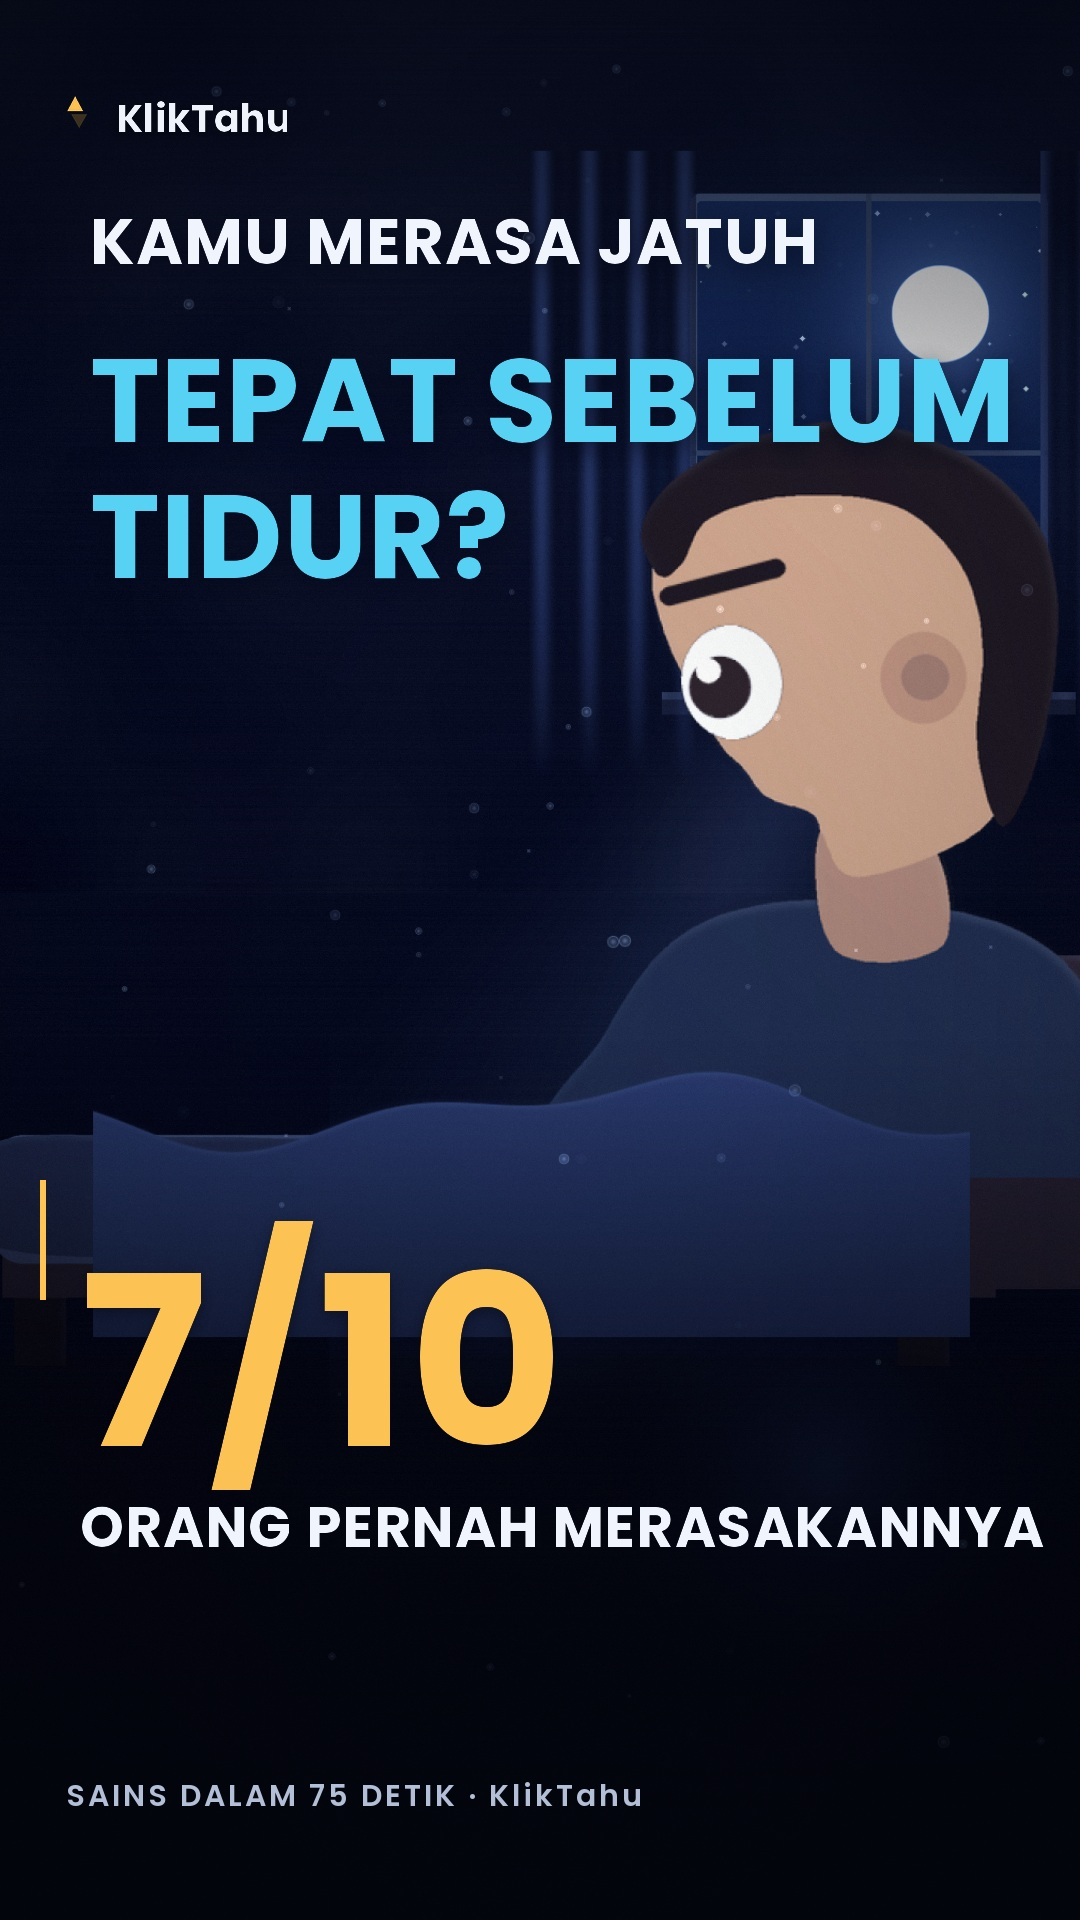
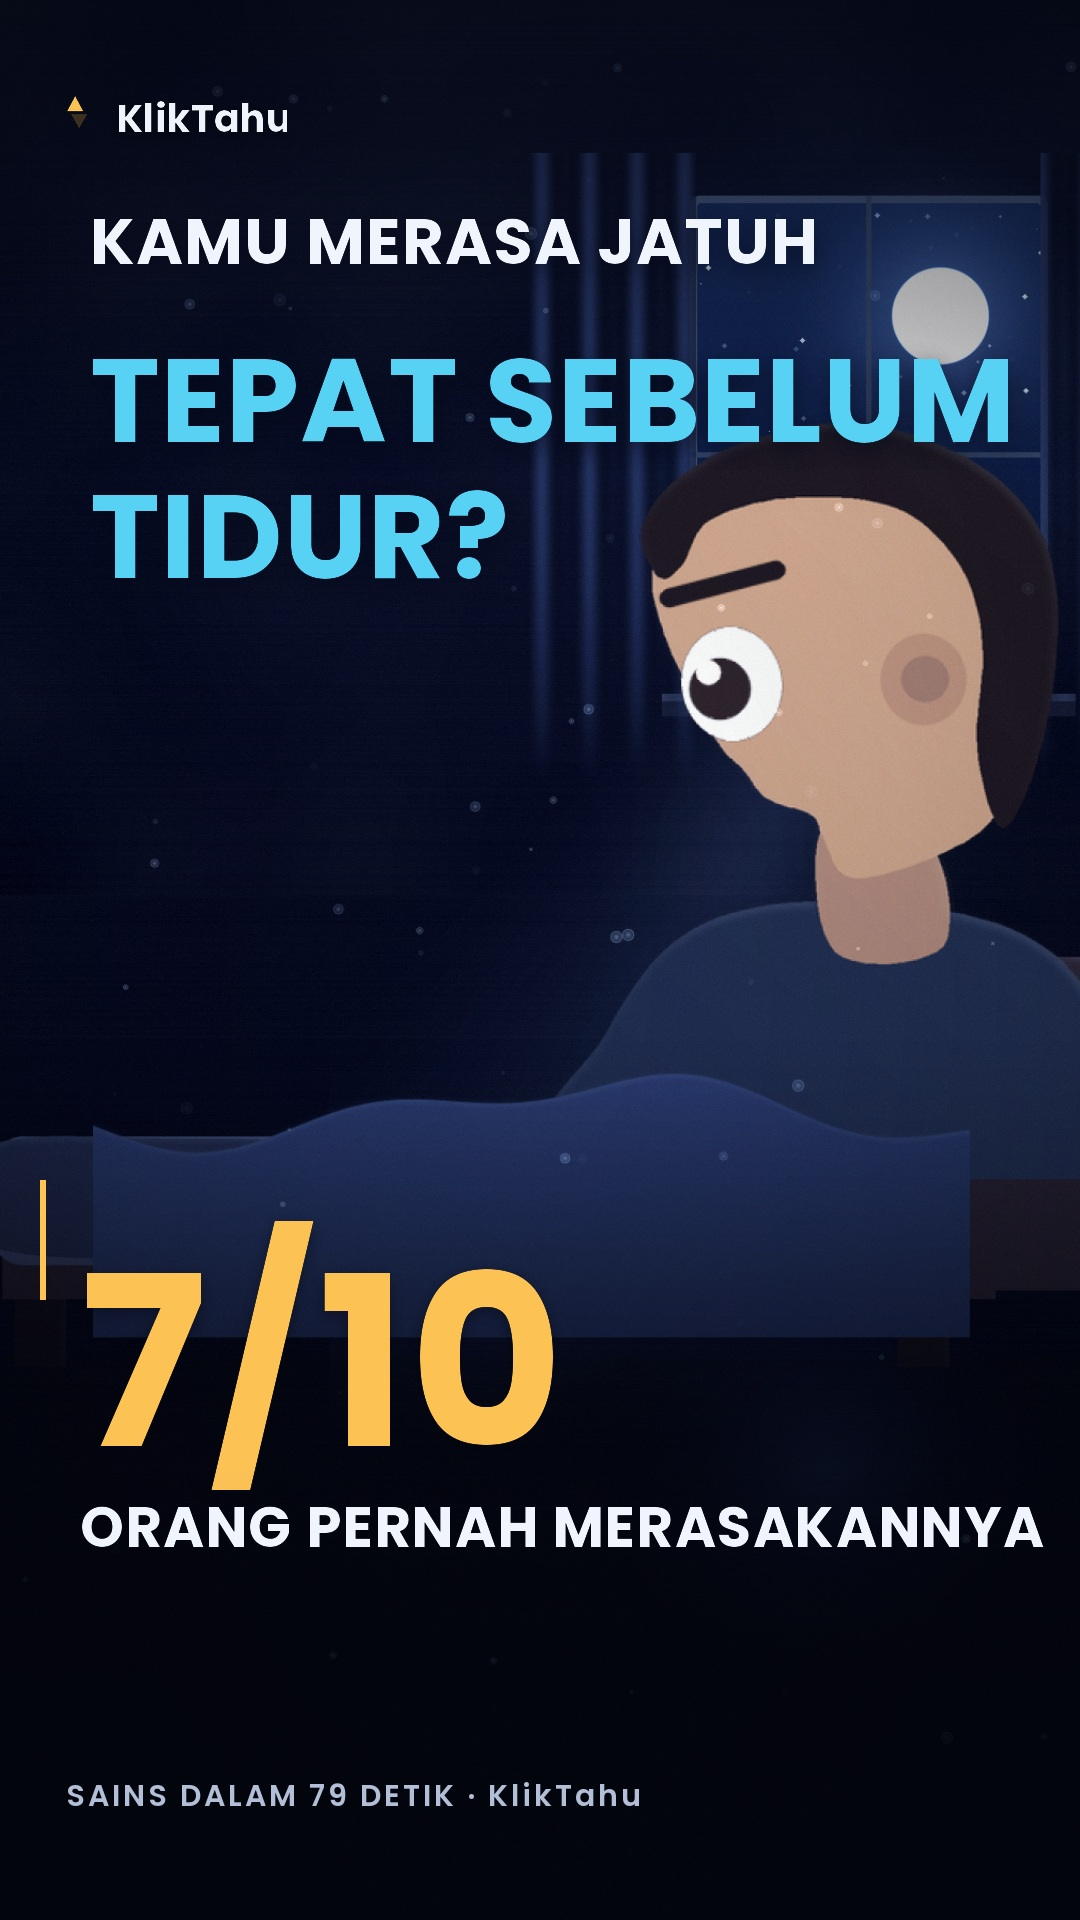
Render ulang Ep56 dengan panel durasi dinamis + 720p & pustaka segar
Teks '75 DETIK' di panel data babak terakhir dan di thumbnail dirender
SEBELUM durasi dihitung dari timeline, jadi video 79,32 s masih mengklaim 75
detik. Sekarang semuanya dirender ulang dari kode yang sudah dipatch.

- mesin_v20_ep56.py: penanda _AUTO ('__DURASI__') menggantikan string ajaib
  '75 DETIK'; nilainya diisi f'{TOTAL:.0f} DETIK'. Panel kini '79 DETIK'
  (penuh) dan '48 DETIK' (kilat), sudah dicek dari frame asli video.
- Render ulang: penuh 79,32 s / 58,27 MB, kilat 48,07 s / 35,80 MB,
  keduanya QC 24/24 dengan audio VO baru.
- pratinjau_720p.py (baru): 720x1280 lanczos CRF 26 + verifikasi resolusi,
  durasi, audio, ukuran -> 720p 7,2 MB & 4,4 MB (sebelumnya dibuat dengan
  perintah ffmpeg manual yang tidak tercatat).
- pustaka/Ep56_HypnicJerk/ dibuat ulang dari video+audio final: METADATA
  (bab waktu dari timing.json), subtitle_id.srt 12 baris dengan waktu baru,
  thumb_utama ('SAINS DALAM 79 DETIK') & thumb_alt, lembar pratinjau.
- .gitignore: audio/vo/master.json & audio/vo_kilat/master.json (hasil ukur)
  tidak ikut repo.

diff --git a/mesin-v12/pratinjau_720p.py b/mesin-v12/pratinjau_720p.py
@@ -1,0 +1,116 @@
+#!/usr/bin/env python3
+"""Pratinjau 720x1280 dari video Shorts 1080x1920.
+
+Kenapa ada berkas ini: versi 720p dulu dibuat dengan perintah ffmpeg yang
+diketik tangan, sehingga angkanya (crf 26, lanczos, `-c:a copy`) hanya hidup di
+catatan sesi dan mudah melenceng antar-episode. Semua parameter sekarang di
+satu tempat, dan tiap hasil langsung diperiksa (resolusi, durasi, audio utuh,
+ukuran) sebelum dilaporkan.
+
+Pakai:
+    python3 pratinjau_720p.py keluaran/KlikTahu_Ep56_HypnicJerk_v20.mp4
+    python3 pratinjau_720p.py keluaran/*.mp4 --crf 27
+
+Keluaran ditulis di sebelah berkas sumber dengan akhiran `_720p.mp4`.
+"""
+from __future__ import annotations
+
+import argparse
+import json
+import os
+import subprocess
+import sys
+
+try:
+    import imageio_ffmpeg
+
+    FF = imageio_ffmpeg.get_ffmpeg_exe()
+except Exception:  # pragma: no cover - ffmpeg dari PATH
+    FF = "ffmpeg"
+
+
+def ffprobe_json(path: str) -> dict:
+    """Info stream lewat `ffmpeg -i` (di sandbox tidak ada ffprobe)."""
+    out = subprocess.run(
+        [FF, "-hide_banner", "-i", path], capture_output=True, text=True
+    ).stderr
+    info = {"durasi": None, "lebar": None, "tinggi": None, "audio": False}
+    for baris in out.splitlines():
+        b = baris.strip()
+        if b.startswith("Duration:"):
+            jam, menit, sisa = b.split()[1].rstrip(",").split(":")
+            info["durasi"] = int(jam) * 3600 + int(menit) * 60 + float(sisa)
+        elif "Video:" in b and "x" in b:
+            for bagian in b.split(","):
+                bagian = bagian.strip()
+                if "x" in bagian and bagian.replace("x", "").isdigit():
+                    lebar, tinggi = bagian.split("x")
+                    info["lebar"], info["tinggi"] = int(lebar), int(tinggi)
+                    break
+        elif "Audio:" in b:
+            info["audio"] = True
+    return info
+
+
+def jadikan(path: str, crf: float = 26, preset: str = "slow") -> str:
+    keluar = os.path.splitext(path)[0] + "_720p.mp4"
+    sementara = keluar + ".tmp.mp4"
+    perintah = [
+        FF, "-hide_banner", "-loglevel", "error", "-y",
+        "-i", path,
+        # 720 lebar, tinggi mengikuti rasio asli (1080x1920 -> 720x1280).
+        "-vf", "scale=720:-2:flags=lanczos",
+        "-c:v", "libx264", "-crf", str(crf), "-preset", preset,
+        "-pix_fmt", "yuv420p", "-profile:v", "high", "-level", "4.1",
+        "-c:a", "copy", "-movflags", "+faststart",
+        sementara,
+    ]
+    subprocess.run(perintah, check=True)
+    os.replace(sementara, keluar)
+    return keluar
+
+
+def main(argv=None) -> int:
+    ap = argparse.ArgumentParser(description=__doc__)
+    ap.add_argument("berkas", nargs="+", help="MP4 1080x1920 sumber")
+    ap.add_argument("--crf", type=float, default=26)
+    ap.add_argument("--preset", default="slow")
+    ap.add_argument("--json")
+    a = ap.parse_args(argv)
+
+    laporan = []
+    for path in a.berkas:
+        asal = ffprobe_json(path)
+        keluar = jadikan(path, a.crf, a.preset)
+        hasil = ffprobe_json(keluar)
+        butir = {
+            "sumber": path,
+            "keluaran": keluar,
+            "mb": round(os.path.getsize(keluar) / 1e6, 2),
+            "resolusi": f"{hasil['lebar']}x{hasil['tinggi']}",
+            "durasi": hasil["durasi"],
+            "audio": hasil["audio"],
+        }
+        butir["lulus"] = (
+            hasil["lebar"] == 720
+            and hasil["audio"]
+            and asal["durasi"] is not None
+            and hasil["durasi"] is not None
+            and abs(hasil["durasi"] - asal["durasi"]) < 0.1
+        )
+        laporan.append(butir)
+        tanda = "OK " if butir["lulus"] else "GAGAL"
+        print(
+            f"[{tanda}] {os.path.basename(keluar)} · {butir['resolusi']} · "
+            f"{butir['durasi']:.2f} s · {butir['mb']:.2f} MB"
+        )
+
+    if a.json:
+        with open(a.json, "w", encoding="utf-8") as f:
+            json.dump(laporan, f, ensure_ascii=False, indent=2)
+        print(f"-> {a.json}")
+    return 0 if all(x["lulus"] for x in laporan) else 1
+
+
+if __name__ == "__main__":
+    sys.exit(main())

diff --git a/mesin-v12/mesin_v20_ep56.py b/mesin-v12/mesin_v20_ep56.py
@@ -587,6 +587,8 @@ def _aktor_penutup(k, t, dur):
 # ---------------------------------------------------------------- panel bawah
 # Tiga baris data per babak. Ini yang membuat layar penuh tanpa hiasan kosong:
 # penonton Shorts berhenti kalau ada informasi baru di setiap zona layar.
+_AUTO = "__DURASI__"  # penanda: nilainya dihitung dari TOTAL, bukan ditulis tangan
+
 BAWAH = [
     [("NAMA ILMIAH", "HYPNIC JERK"), ("ARTI", "SENTAKAN TIDUR"), ("BAHAYA", "TIDAK")],
     [("ASAL KATA", "HYPNOS = TIDUR"), ("JENIS", "MYOCLONUS"), ("PUSAT", "BATANG OTAK")],
@@ -597,7 +599,8 @@ BAWAH = [
     [("SUMBER", "SLEEP MED. 2016"), ("KLASIFIKASI", "NORMAL · ICDS-3"), ("OBAT", "TIDAK PERLU")],
     [("PEMICU 1", "KURANG TIDUR"), ("PEMICU 2", "KAFEIN SORE"), ("PEMICU 3", "STRES")],
     [("KOPI", "SEBELUM 14.00"), ("JAM TIDUR", "KONSISTEN"), ("SUHU KAMAR", "18–20 °C")],
-    [("SUMBER", "AASM · SLEEP MED."), ("DURASI", "75 DETIK"), ("SERI", "SAINS KlikTahu")],
+    # "AUTO" = diisi otomatis dari TOTAL di bawah (jangan tulis angka tangan).
+    [("SUMBER", "AASM · SLEEP MED."), ("DURASI", _AUTO), ("SERI", "SAINS KlikTahu")],
 ]
 
 
@@ -645,7 +648,7 @@ for _i, _s in enumerate(SCENES):
 # Durasi yang tampil di layar (panel data babak terakhir) dihitung dari timeline
 # asli. Dulu ditulis tangan "75 DETIK" dan langsung salah begitu VO mengubah
 # durasi babak.
-BAWAH = [[(l, (f"{TOTAL:.0f} DETIK" if v == "75 DETIK" else v)) for l, v in baris]
+BAWAH = [[(l, (f"{TOTAL:.0f} DETIK" if v == _AUTO else v)) for l, v in baris]
          for baris in BAWAH]
 
 _LATAR_CACHE = {}

diff --git a/mesin-v12/pustaka/Ep56_HypnicJerk/METADATA.md b/mesin-v12/pustaka/Ep56_HypnicJerk/METADATA.md
@@ -16,12 +16,12 @@ Di video ini:
 00:00 Rasa jatuh yang semua orang kenal
 00:07 Namanya: hypnic jerk
 00:15 Seberapa umum (7 dari 10)
-00:22 Kapan tepatnya terjadi
-00:30 Apa yang dilakukan batang otak
+00:23 Kapan tepatnya terjadi
+00:31 Apa yang dilakukan batang otak
 00:38 Teori refleks primata
 00:46 Dua teori, satu mekanisme
-00:55 Pemicunya: kurang tidur, kafein, stres
-01:02 Cara membuatnya lebih jarang
+00:54 Pemicunya: kurang tidur, kafein, stres
+01:03 Cara membuatnya lebih jarang
 01:10 Kenapa tubuhmu masih bereaksi seperti ini
 
 Sumber: Sleep Medicine (2016) · American Academy of Sleep Medicine · riset University of Colorado. Ini informasi umum, bukan diagnosis. Kalau sentakan terjadi hampir tiap malam disertai kantuk berat, konsultasikan ke dokter.

diff --git a/mesin-v12/PUSTAKA.md b/mesin-v12/PUSTAKA.md
@@ -40,6 +40,8 @@
 - Audio: `keluaran/KlikTahu_Ep56_audio.m4a` — **VO pria Indonesia** + SFX + ambien, AAC 320k 48 kHz,
   −14,1 LUFS / TP −1,9 dBTP; QC VO `qc_vo.py` 16/16
 - Sumber VO: `audio/vo/sumber/01.mp3 … 10.mp3` (satu klip per babak) + `audio/vo/timing.json`
+- Pratinjau 720p: `..._v20_720p.mp4` **7,2 MB** · `..._kilat_720p.mp4` **4,4 MB**
+  (dibuat dengan `pratinjau_720p.py`, bukan perintah ffmpeg ketik tangan)
 - Teks siap tempel: `pustaka/Ep56_HypnicJerk/METADATA.md` + `SIAP_TEMPEL.md`
 - Thumbnail: `pustaka/Ep56_HypnicJerk/thumb_utama.jpg` (angka 7/10) + `thumb_alt.jpg` (uji A/B)
 - Subtitle: `pustaka/Ep56_HypnicJerk/subtitle_id.srt` — 12 baris, waktu diambil dari fungsi

diff --git a/mesin-v12/pustaka/Ep56_HypnicJerk/SIAP_TEMPEL.md b/mesin-v12/pustaka/Ep56_HypnicJerk/SIAP_TEMPEL.md
@@ -2,8 +2,8 @@
 
 ## Berkas
 
-- Video: `dist/KlikTahu_Ep56_HypnicJerk_v20.mp4`
-- Audio (M4A): `dist/KlikTahu_Ep56_audio.m4a`
+- Video: `keluaran/KlikTahu_Ep56_HypnicJerk_v20.mp4`
+- Audio (M4A): `keluaran/KlikTahu_Ep56_audio.m4a`
 - Thumbnail utama: `thumb_utama.jpg`
 - Thumbnail alternatif: `thumb_alt.jpg`
 - Lembar pratinjau: `lembar_pratinjau.jpg`
